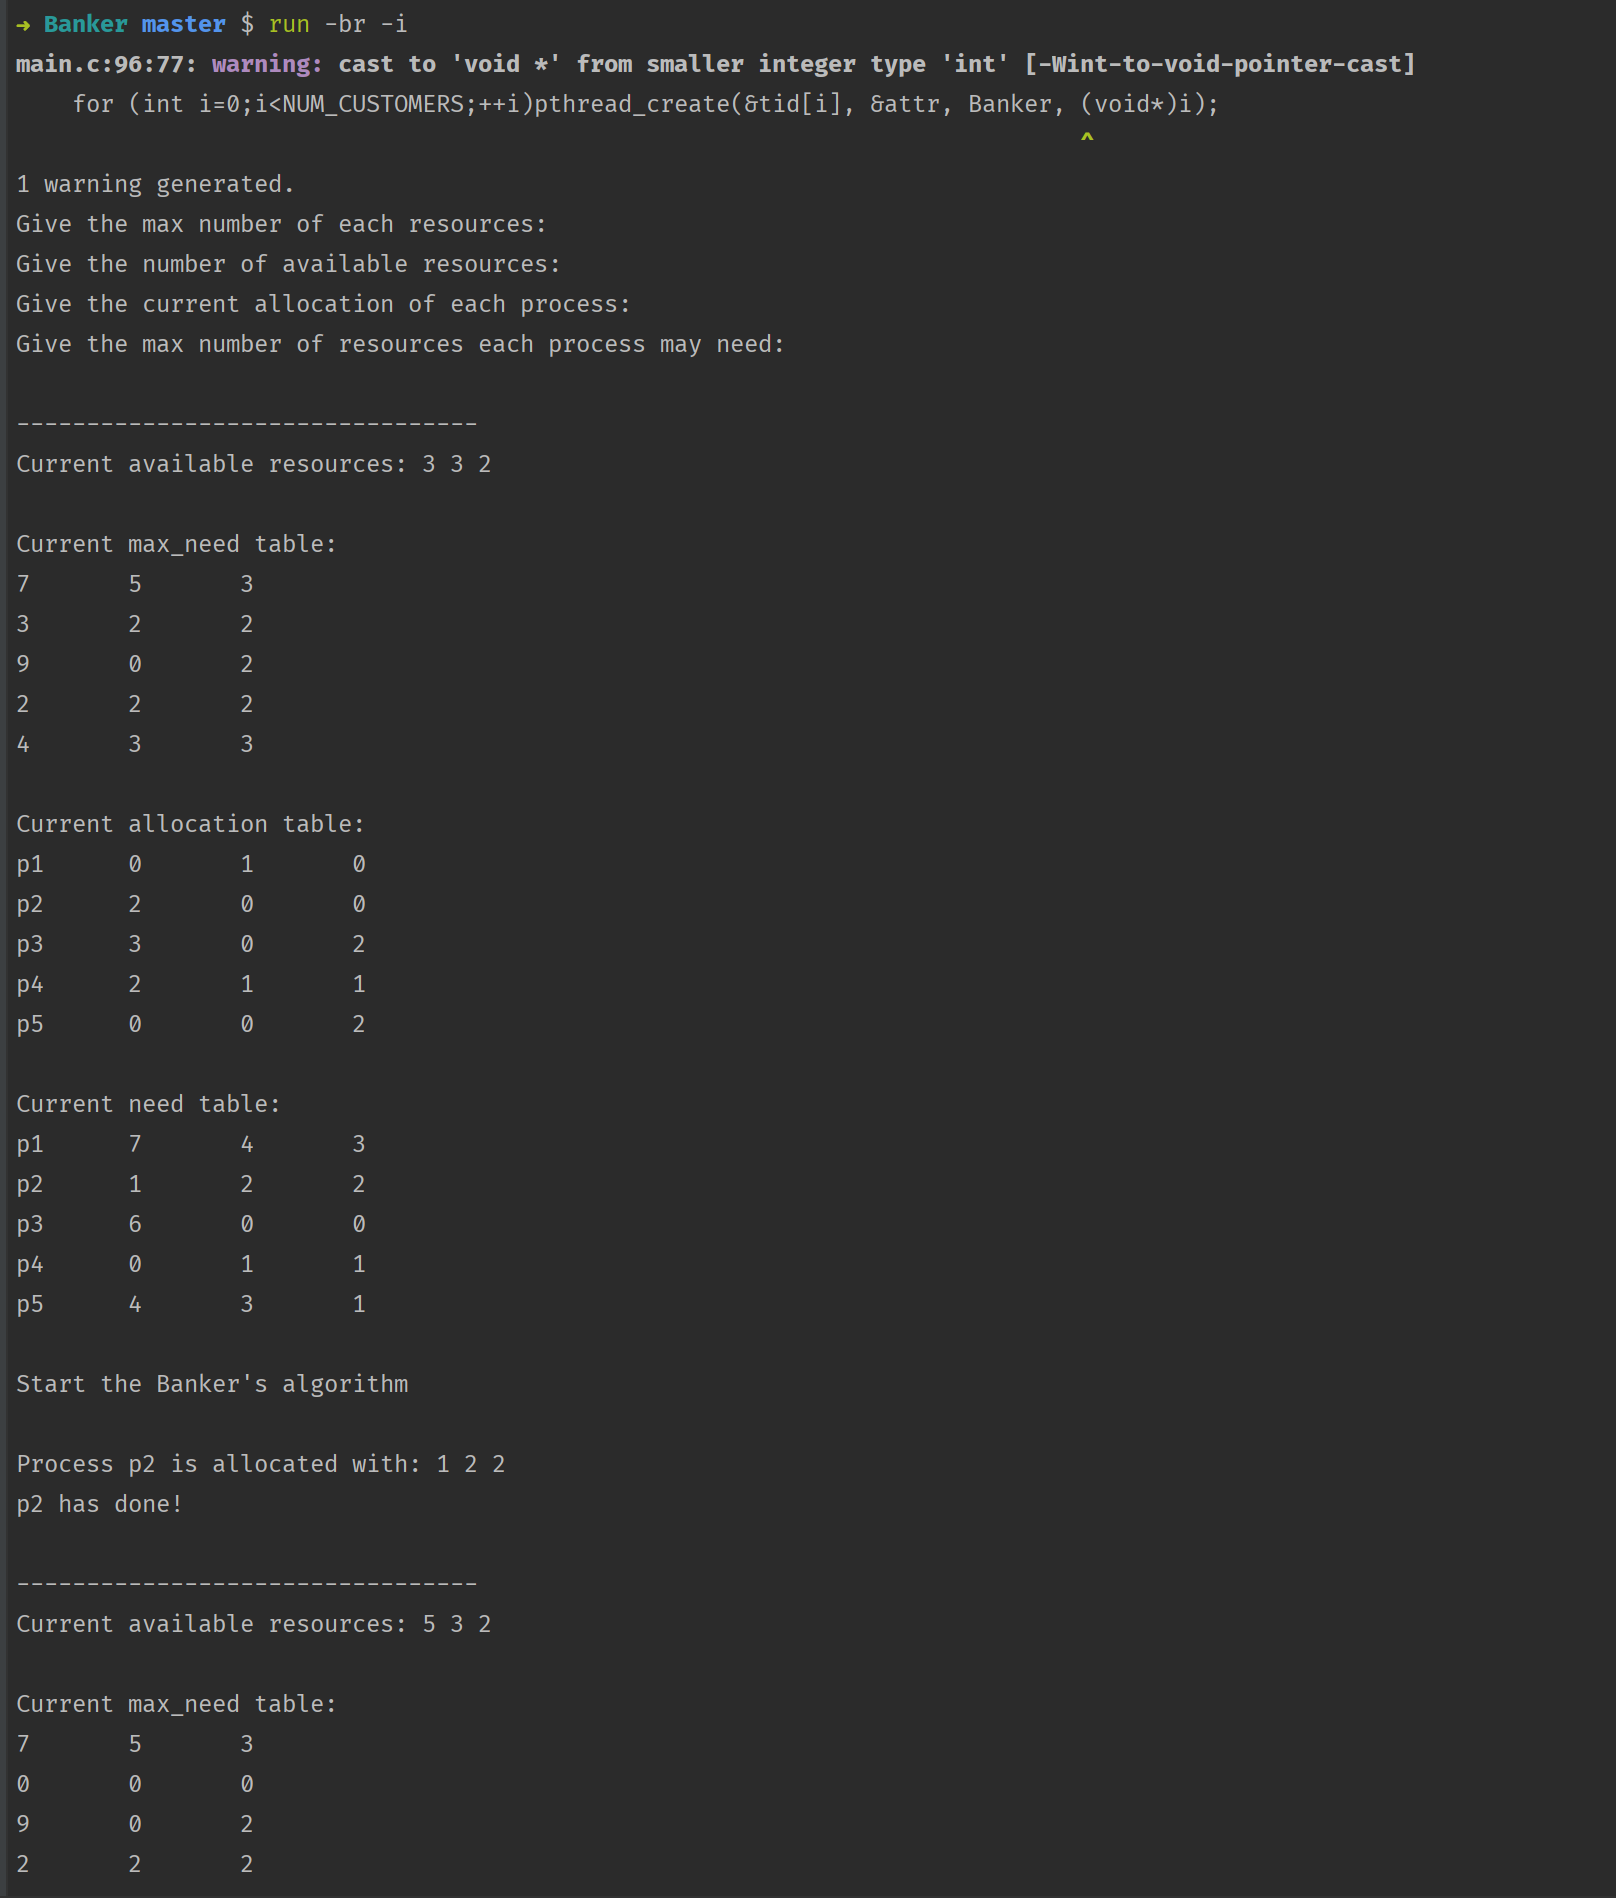
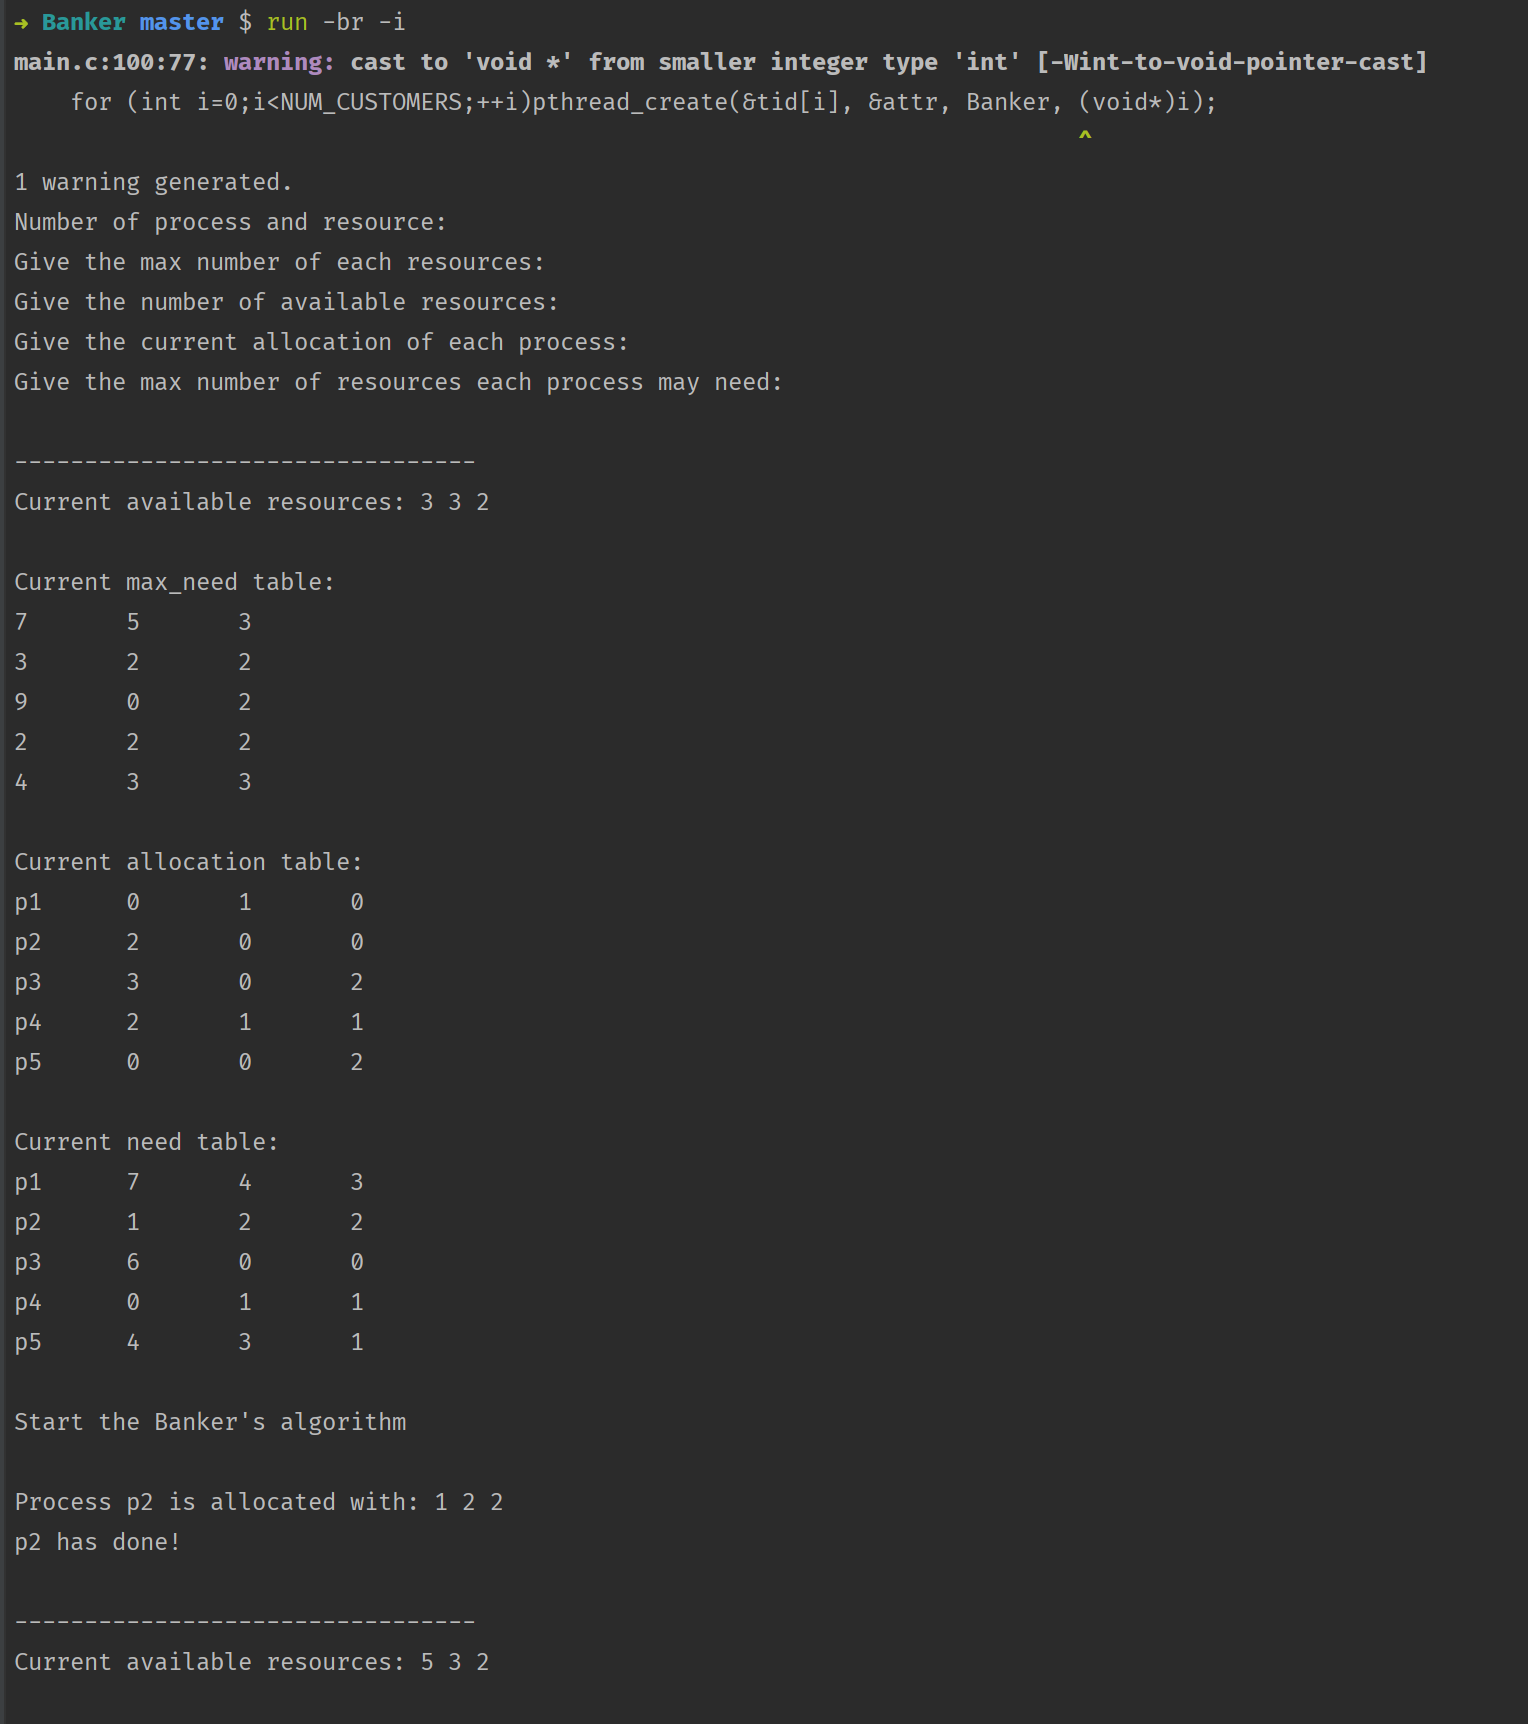
update banker's algorithm

diff --git a/experiment/Banker/main.c b/experiment/Banker/main.c
@@ -1,13 +1,15 @@
 #include <stdio.h>
 #include <stdbool.h>
 #include <pthread.h>
-#define NUM_CUSTOMERS 5
-#define NUM_RESOURCES 3
-int curr[NUM_CUSTOMERS][NUM_RESOURCES];
-int max_need[NUM_CUSTOMERS][NUM_RESOURCES];
-int finish[NUM_CUSTOMERS];
-int max_res[NUM_RESOURCES];
-int avail[NUM_RESOURCES];
+#define maxp 105
+#define maxr 105
+int NUM_CUSTOMERS;
+int NUM_RESOURCES;
+int curr[maxp][maxr];
+int max_need[maxp][maxr];
+int finish[maxp];
+int max_res[maxr];
+int avail[maxr];
 pthread_mutex_t mutex;
 
 void cur_state(){
@@ -66,6 +68,8 @@ void* Banker(void* Pid){
 int main(){
     pthread_t tid[NUM_CUSTOMERS];
     pthread_attr_t attr;
+    puts("Number of process and resource:");
+    scanf("%d%d",&NUM_CUSTOMERS, &NUM_RESOURCES);
     puts("Give the max number of each resources:");
     for (int i=0;i<NUM_RESOURCES;++i)scanf("%d", max_res+i);
     puts("Give the number of available resources:");

diff --git a/experiment/Banker/README.md b/experiment/Banker/README.md
@@ -11,7 +11,7 @@
 
   程序将会被编译, 并使用 `dist/input.txt` 作为输入来运行.
   
-- 你可以在[Qpro](https://pypi.org/project/Qpro/)查看关于Qpro的各种使用方法.
+- 可以在[Qpro](https://pypi.org/project/Qpro/)查看关于Qpro的各种使用方法.
 
 
 
@@ -125,6 +125,7 @@
 ## 程序输出
 
 ```
+Number of process and resource:
 Give the max number of each resources:
 Give the number of available resources:
 Give the current allocation of each process:
@@ -156,62 +157,62 @@ p5	4	3	1
 
 Start the Banker's algorithm
 
-Process p4 is allocated with: 0 1 1 
-p4 has done!
+Process p2 is allocated with: 1 2 2 
+p2 has done!
 
 ---------------------------------
-Current available resources: 5 4 3
+Current available resources: 5 3 2
 
 Current max_need table:
 7	5	3
-3	2	2
-9	0	2
 0	0	0
+9	0	2
+2	2	2
 4	3	3
 
 Current allocation table:
 p1	0	1	0
-p2	2	0	0
+p2	0	0	0
 p3	3	0	2
-p4	0	0	0
+p4	2	1	1
 p5	0	0	2
 
 Current need table:
 p1	7	4	3
-p2	1	2	2
+p2	0	0	0
 p3	6	0	0
-p4	0	0	0
+p4	0	1	1
 p5	4	3	1
 
 Process p5 is allocated with: 4 3 1 
 p5 has done!
 
 ---------------------------------
-Current available resources: 5 4 5
+Current available resources: 5 3 4
 
 Current max_need table:
 7	5	3
-3	2	2
-9	0	2
 0	0	0
+9	0	2
+2	2	2
 0	0	0
 
 Current allocation table:
 p1	0	1	0
-p2	2	0	0
+p2	0	0	0
 p3	3	0	2
-p4	0	0	0
+p4	2	1	1
 p5	0	0	0
 
 Current need table:
 p1	7	4	3
-p2	1	2	2
+p2	0	0	0
 p3	6	0	0
-p4	0	0	0
+p4	0	1	1
 p5	0	0	0
 
-Process p2 is allocated with: 1 2 2 
-p2 has done!
+Process p4 is allocated with: 0 1 1 
+p4 has done!
 
 ---------------------------------
 Current available resources: 7 4 5
@@ -306,3 +307,4 @@ All processes have finished
 ## 感想:
 
 通过本次实验我理解了银行家算法的具体实现, 和大致流程.
+
